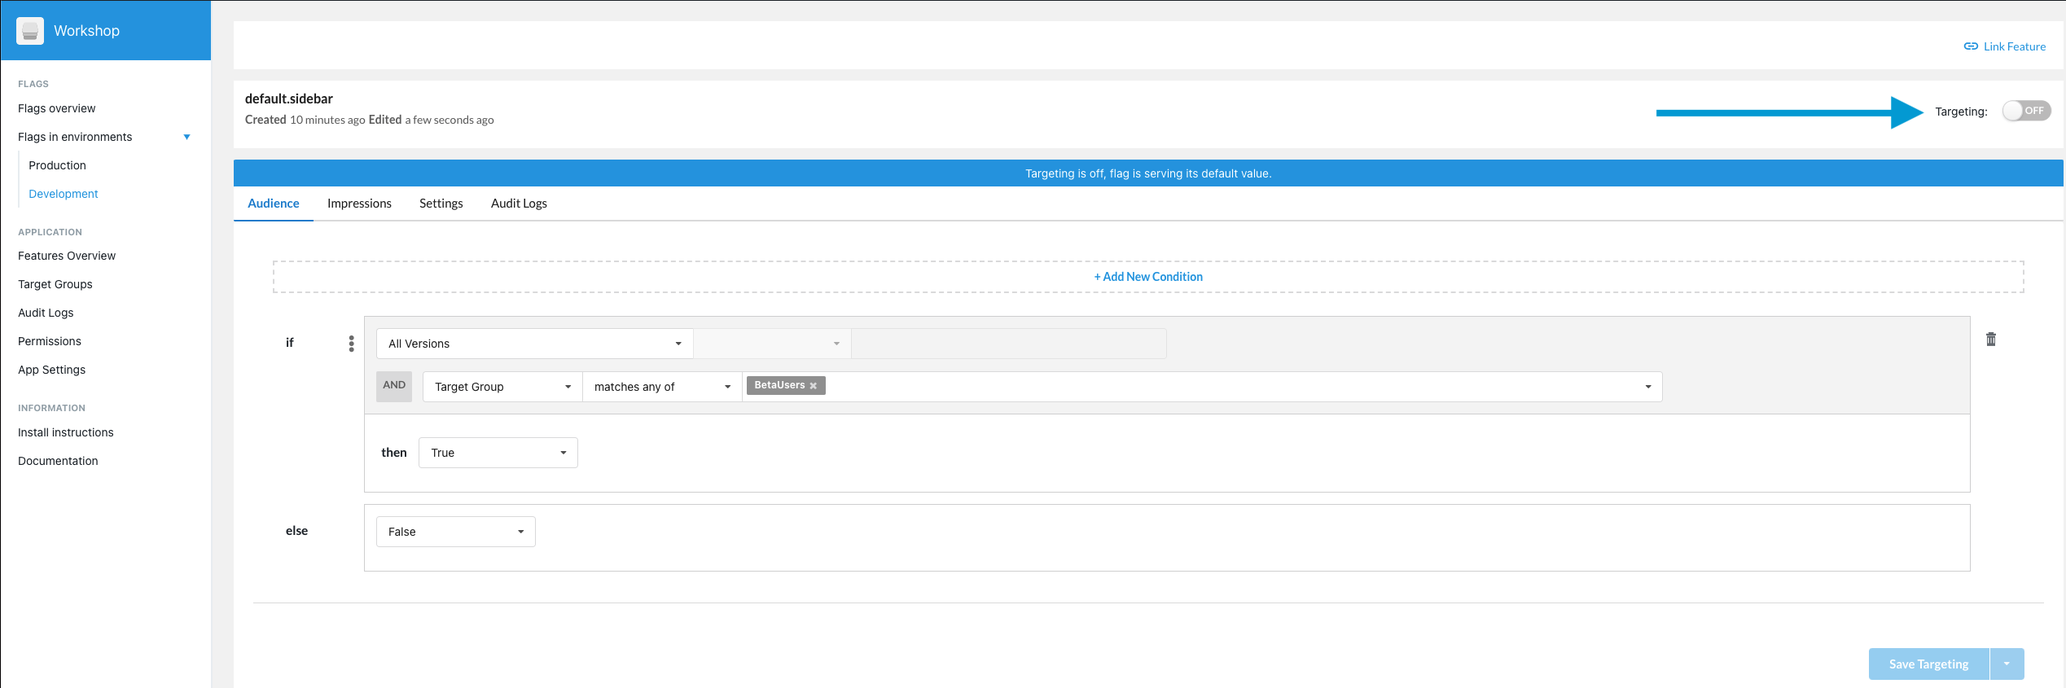
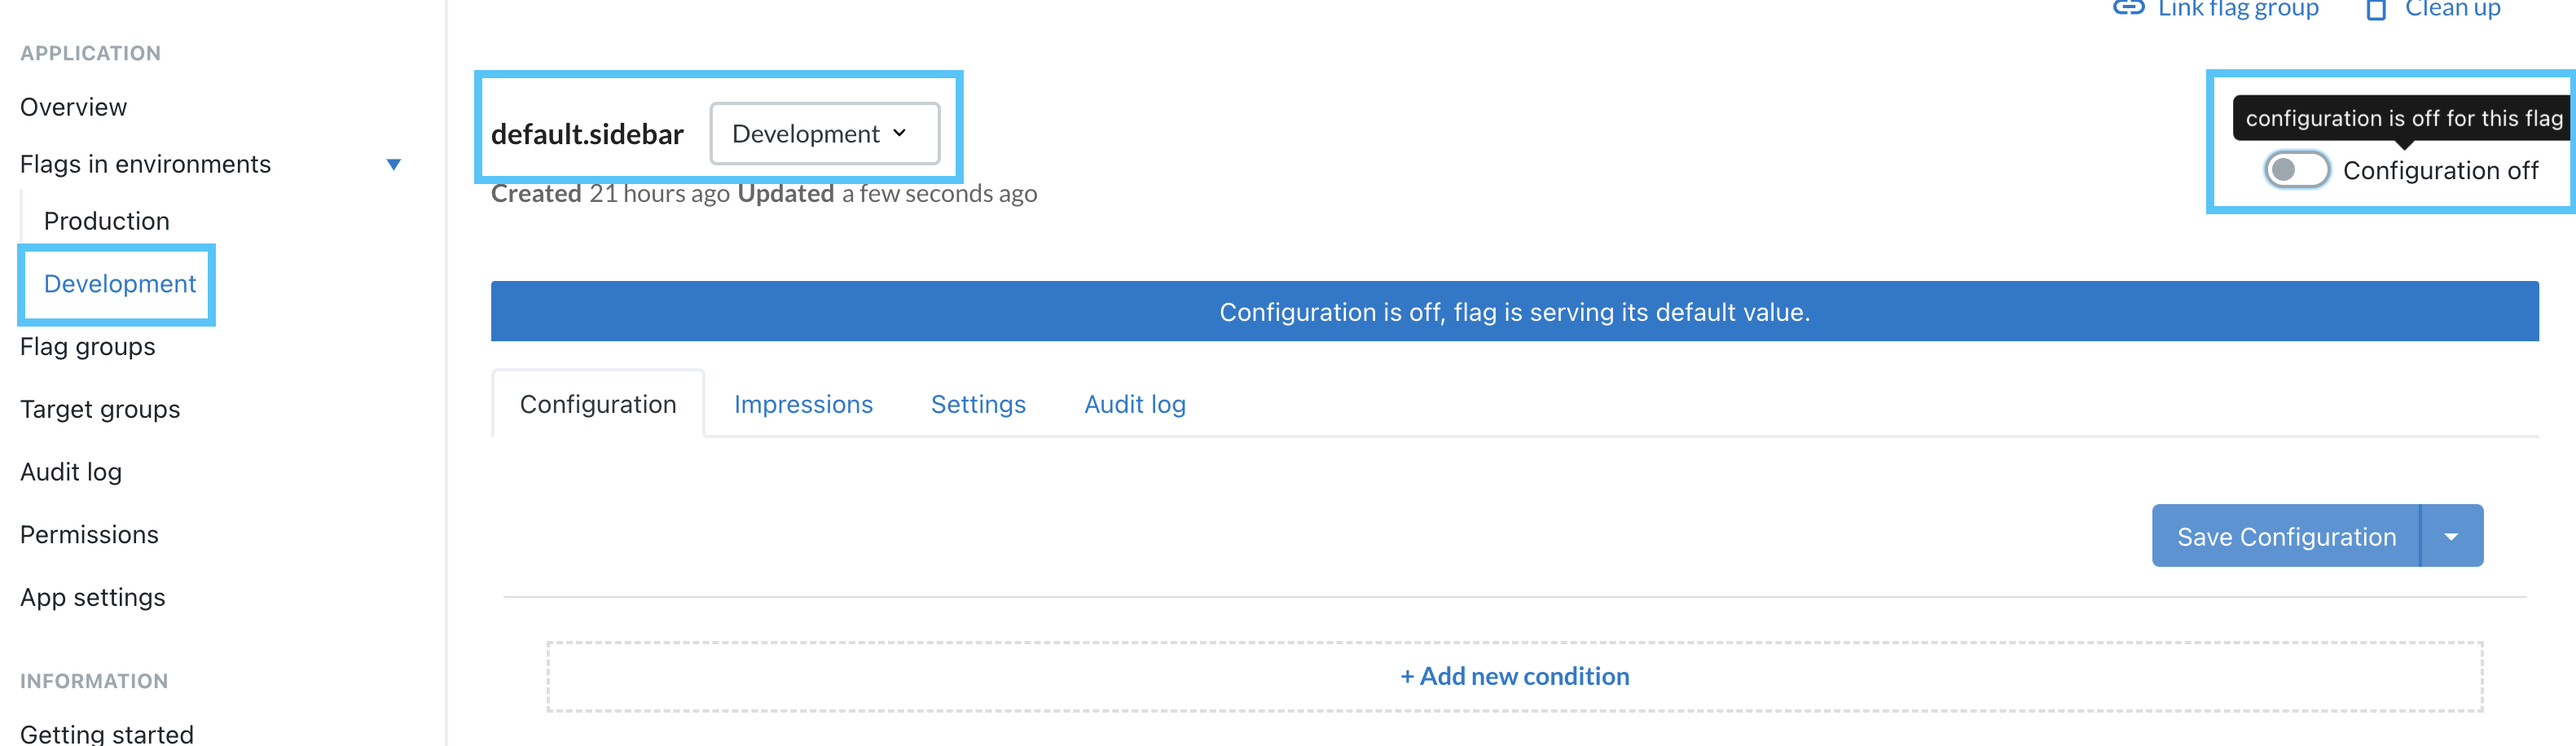
misc updates for ui changes

diff --git a/labs/cloudbees-feature-flags/content/labs/cac.md b/labs/cloudbees-feature-flags/content/labs/cac.md
@@ -8,13 +8,13 @@ weight: 4
 1. Create an empty repository named ***feature-flags-configuration-as-code*** in your workshop GitHub Organization. 
 2. Connect the CloudBees Feature Management app into the Github repository by:
   - Going to **App Settings > Integrations tab** (from the left Panel) in the CloudBees Feature Management dashboard.
-  - Click the **Connect** button in the **GitHub** panel. ![GitHub App](images/app-integrations.png?width=50pc)
+  - Click the **Connect** button in the **GitHub** panel. ![GitHub App](images/app-integrations.png?width=60pc)
 3. In GitHub, select your workshop GitHub Organization to integrate with CloudBees Feature Management GitHub app. On the next screen select the ***Only select repositories*** and then select the `feature-flags-configuration-as-code` repository you just created. ![GitHub App](images/github-app-repo.png?width=50pc)
 4. After clicking the **Install** button you will be redirected back to the CloudBees Feature Management dashboard to select your app and the repository you just created. ![GitHub App](images/github-rollout-confirmation.png?width=50pc) 
-5. Click **Connect** and you are done integrating CloudBees Feature Management with GitHub. ![Connected](images/connected.png?width=50pc) 
+5. Click **Connect** and you are done integrating CloudBees Feature Management with GitHub. ![Connected](images/connected.png?width=60pc) 
 
 ### Using CasC and GitOps
-1. In the CloudBees Feature Management dashboard, disable the sidebar experiment in Development environment by toggling targeting from On to Off. ![Connected](images/sidebar_killed.png?width=50pc)
+1. In the CloudBees Feature Management dashboard, disable the **sidebar** flag configuration in **Development** environment by toggling the Configuration to off. ![Connected](images/sidebar_killed.png?width=80pc)
 2. In GitHub, navigate to your `feature-flags-configuration-as-code` repository and note the structure. You should see an automatically generated `README.md` and a `target_groups` directory.
 3. Switch from `master` branch to the automatically created `Development` branch and note the differences. Note the existence of an `experiments` folder that contains `default.sidebar.yml` with `enabled: false` on line 3.
 4. Within the GitHub code editor, modify `default.sidebar.yml` by editing the line `enabled: false` to become `enabled: true` and commit to `Development` branch. Your YAML should closely resemble this:
@@ -31,8 +31,8 @@ conditions:
 value: false
 ```
 5. In the CloudBees Feature Management dashboard, notice that your **default.sidebar** configuration has been reactivated in the **Development** environment.
-6. Now that you are satisfied with the configuration in your Development environment, you want to include this experiment in your Production environment. In Github, merge the `Development` branch to `master` branch by creating and merging a pull request. Make sure not to delete the `Development` branch after confirming the merge.
-7. In CloudBees Feature Management dashboard, note the **sidebar** and **title** experiments have now added to your **Production** environment. ![Connected](images/production_sidebar.png?width=50pc)
+6. Now that you are satisfied with the configuration in your Development environment, you want to include this experiment in your Production environment. In Github, merge the `Development` branch to `master` branch by creating and merging a pull request. Make sure not to delete the `Development` branch after confirming the merge. ![Create PR](images/create_pr.png?width=50pc)
+7. In CloudBees Feature Management dashboard, note the **sidebar** and **title** experiments have now added to your **Production** environment. ![Connected](images/production_sidebar.png?width=70pc)
 
 ### Lab 4 Completed!
 Congratulations! You have finished Lab 4 of the CloudBees Feature Management Workshop.
